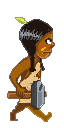
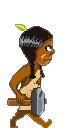
Player on Stairs animation

diff --git a/GreenBlood/src/br/com/greenblood/pieces/movable/Player.java b/GreenBlood/src/br/com/greenblood/pieces/movable/Player.java
@@ -32,7 +32,7 @@ public class Player extends Character {
 	private Listener<Void> nextActionListener;
 	
     public Player(Rect bounds, Rect boundingBox) {
-        super(bounds, boundingBox, 280, new StandingSprite());
+        super(bounds, boundingBox, 160, new StandingSprite());
         setCollidable(true);
         
         GameWorld.view().playerStats().setMaximumHealth(maxHelth);
@@ -57,12 +57,15 @@ public class Player extends Character {
         		onTouchingJumpListener.on((int) uptime);
         }else{
 	        if (actions.hasJumped()){
+	        	controlledAnimation = false;
 	        	walkingOnAir();
 	            dir().setY(-1.2f);
 	        }
 	        
-	        if(actions.hasAction())
+	        if(actions.hasAction()){
+	        	controlledAnimation = false;
 	         	executeAction();
+	        }
         }
     }
     
@@ -75,7 +78,7 @@ public class Player extends Character {
 	}
 
 	protected void processMoveLogicsOnAnimation(Vector2D dir){
-		if(blockInput)
+		if(blockInput || controlledAnimation)
 			return;
 		
 		if(Math.abs(dir.y()) == 0){
@@ -94,7 +97,7 @@ public class Player extends Character {
         this.controls.setOnDoubleTapListener(new Listener<Void>() {
 			@Override
 			public void on(Void t) {
-				doBackwardDash();
+//				doBackwardDash();
 			}
 		});
     }
@@ -109,6 +112,7 @@ public class Player extends Character {
 				endListener.on(null);
 			}
 		}
+		
     	image().update(uptime);
     }
 
@@ -162,11 +166,6 @@ public class Player extends Character {
             					 ImageLoader.image("player/punch/p_3.png") 
             		    }, 565, false);
         }
-        
-        @Override
-        public void update(long uptime) {
-        	super.update(uptime);
-        }
     }
 	@Override
 	public void hit() {
@@ -217,11 +216,25 @@ public class Player extends Character {
 	//Please do it better
 	private boolean walkingRightUntilBlock;
 	private Listener<Void> endListener;
+	private boolean controlledAnimation;
+	
 	public void walkRightUntilBlock(Listener<Void> endListener) {
 		blockInput = true;
 		this.endListener = endListener;
 		walkingRightUntilBlock = true;
 		setSprite(walkingSprite);
 	}
+
+	public void useStairsSprite() {
+		controlledAnimation = true;
+		execute(onStairsSprite.id(4545), false);
+	}
 	
+	private final Sprite onStairsSprite = new OnStairsSprite();
+    private static final class OnStairsSprite extends Sprite {
+        public OnStairsSprite(){
+            super(new Bitmap[] { ImageLoader.image("player/stairs_1.png"),ImageLoader.image("player/stairs_2.png") }
+            			,160, true);
+        }
+    }
 }

diff --git a/GreenBlood/src/br/com/greenblood/pieces/scene/one/Stairs.java b/GreenBlood/src/br/com/greenblood/pieces/scene/one/Stairs.java
@@ -14,7 +14,7 @@ import br.com.greenblood.world.GameWorld;
 import commons.awt.Listener;
 
 public class Stairs extends StaticObject {
-	private static final int pixelsPerSecond = 70;
+	private static final int pixelsPerSecond = 140;
 	
 	private final Player player;
 	private boolean walkingOverThis = false;
@@ -79,6 +79,7 @@ public class Stairs extends StaticObject {
 		public void on(Integer t) {
 			long fall = pixelsPerSecond / t;
 			player.pos().setY(player.pos().y() - fall);
+			player.useStairsSprite();
 		}
 	};
 	
@@ -87,6 +88,7 @@ public class Stairs extends StaticObject {
 		public void on(Integer t) {
 			long fall = pixelsPerSecond / t;
 			player.pos().setY(player.pos().y() + fall);
+			player.useStairsSprite();
 		}
 	};
 
